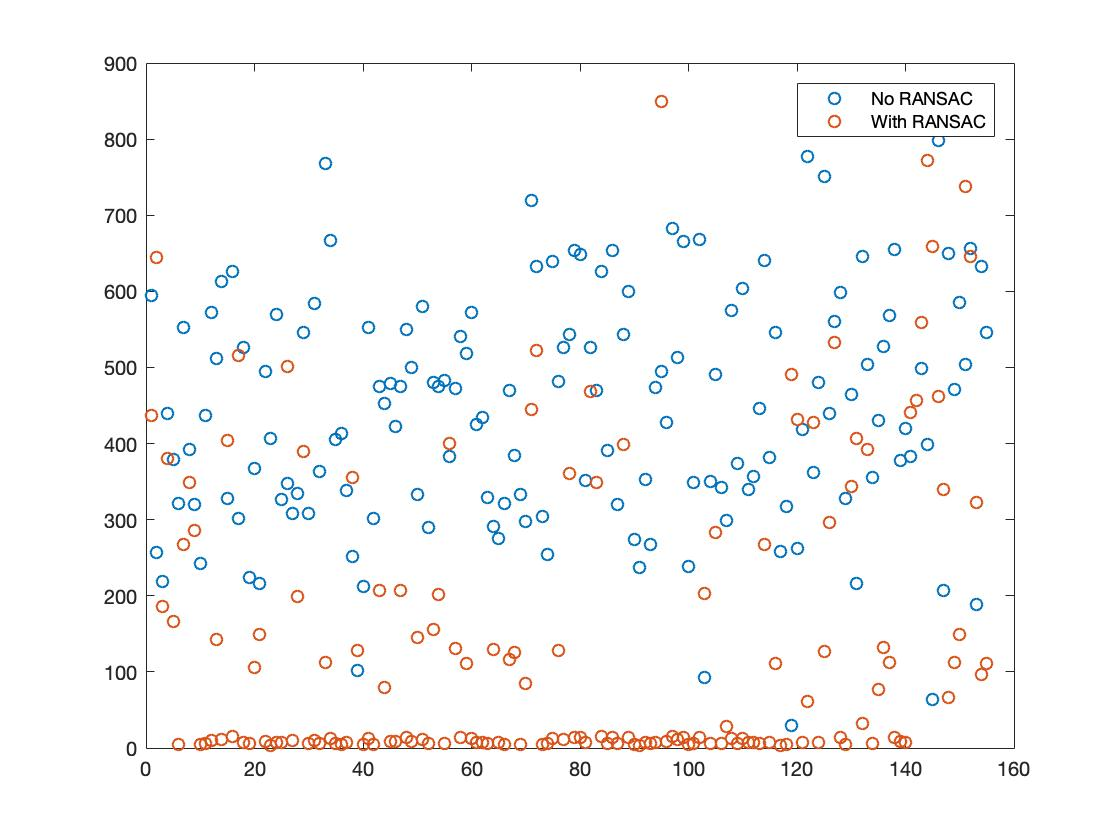
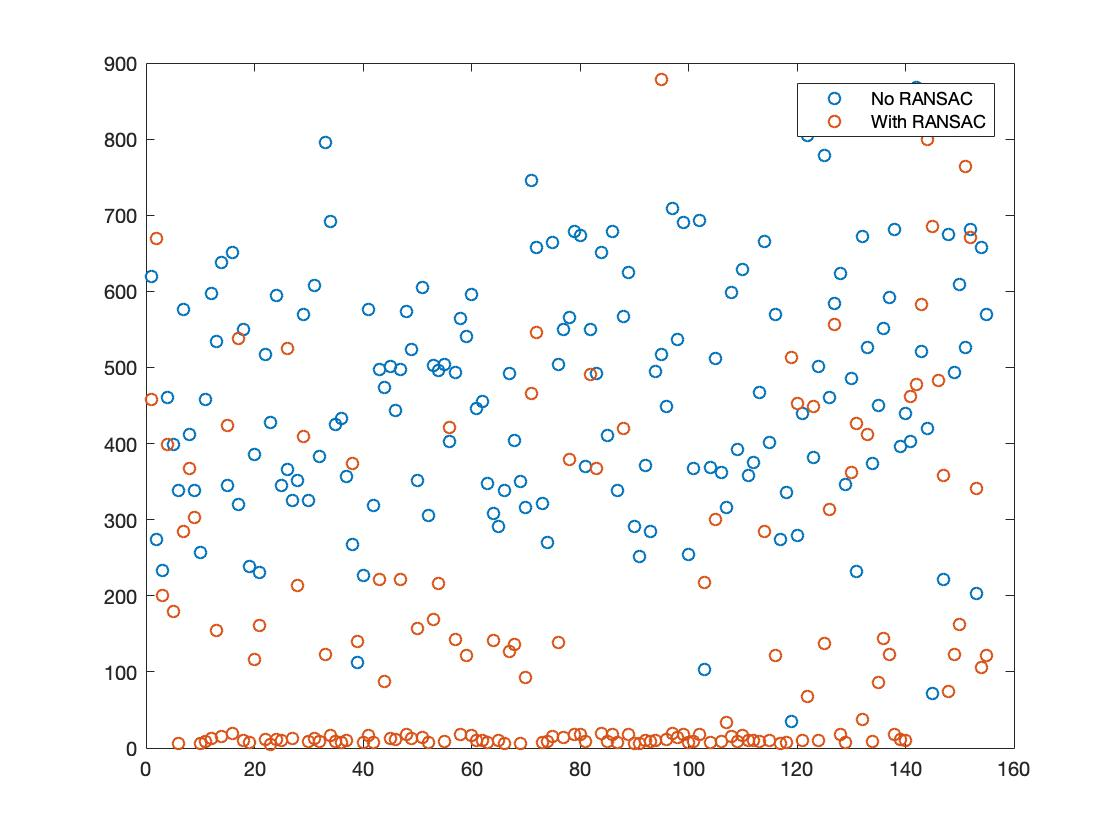
add normalization

diff --git a/normalize_DLT.m b/normalize_DLT.m
@@ -1,0 +1,35 @@
+% Normalized Direct Linear Transform
+
+function [norm_Features, norm_Matches, T_Features, T_Matches] = normalize_DLT(Features, Matches)
+    % Features: Nx2 matrices storing the features [x, y] FIXED
+    % Matches: Nx2 matrices storing the correspondences [x', y'] MOVING
+    
+    
+    % Move features and Matches centered on origin
+    mean_Features = mean(Features)
+    mean_Matches = mean(Matches)
+    norm_Features = Features - mean_Features;
+    norm_Matches = Matches - mean_Matches;
+    
+    % Find mean distance to origin
+    sd_Features = std(norm_Features)
+    sd_Matches = std(norm_Matches)
+    
+    dist_Features = mean(sqrt(sum(Features.^2)));
+    dist_Matches = mean(sqrt(sum(Matches.^2)));
+    
+    % Change average distance to sqrt(2)
+    norm_Features = sqrt(2) * norm_Features/dist_Features;
+    norm_Matches = sqrt(2) * norm_Matches/dist_Matches;
+    
+%     T_Features = [sqrt(2)/sd_Features(1), 0, -mean_Features(1);
+%                   0, sqrt(2)/sd_Features(2), -mean_Features(2);
+%                   0, 0, 1];
+%     
+%     T_Matches = [sqrt(2)/sd_Matches(1), 0, -mean_Matches(1);
+%                   0, sqrt(2)/sd_Matches(2), -mean_Matches(2);
+%                   0, 0, 1];
+    T_Features = computeHomography(norm_Features, Features, "Similarity");
+    T_Matches = computeHomography(norm_Matches, Matches, "Similarity");
+    
+end

diff --git a/testRANSACHomography.m b/testRANSACHomography.m
@@ -12,8 +12,8 @@ addpath('/Users/briannaburton/vlfeat-0.9.21/toolbox/demo');
 % same range
 
 % Specify images to register
-Ia = imread('./DataSet00/skin1.jpg') ;
-Ib = imread('./DataSet00/skin2.jpg') ;
+Ia = imread('./DataSet00/retina1.png') ;
+Ib = imread('./DataSet00/retina2.png') ;
 
 peak_thresh = 0;
 edge_thresh = 10;
@@ -35,9 +35,21 @@ fixed = [xa; ya]';
 moving = [xb; yb]';
 
 Model = "Projective";
+Normalization = true;
 
-H = computeHomography(fixed, moving, Model);
-Hran = computeHomographyRANSAC(fixed, moving, Model);
+if Normalization == true
+    % Extend the algorithm with a normalization and a denormalization step
+    [fixed_norm, moving_norm, T_Features, T_Matches] = normalize_DLT(fixed, moving);
+    H = computeHomography(fixed_norm, moving_norm, Model);
+    Hran = computeHomographyRANSAC(fixed_norm, moving_norm, Model);
+    % Denormalization
+    H = inv(T_Features)*H*T_Matches
+    Hran = inv(T_Features)*Hran*T_Matches
+    
+elseif Normalization == false
+    H = computeHomography(fixed, moving, Model);
+    Hran = computeHomographyRANSAC(fixed, moving, Model);
+end
 
 img = Ib; % image to transform
 H_imwarp = transpose(H); %transpose for imwarp

diff --git a/find_error_dist.m b/find_error_dist.m
@@ -1,14 +1,25 @@
 function sq_diff = find_error_dist(H, Features, Matches)
-%find_error_dist returns distance between fixed (Features) and
+%find_error_dist returns reprojection error between fixed (Features) and
 %transformed moving (Matches) points
-%   H is a homagrphy matrix
+
+%   H is a homography matrix
     % Apply homography 
     Homogeneous_Matches = [Matches'; ones(1,length(Matches))];
     Transformed_Matches = H * Homogeneous_Matches;
 
+    % Apply inverse homography 
+    Homogeneous_Features = [Features'; ones(1,length(Features))];
+    Transformed_Features = inv(H) * Homogeneous_Features;
+    
     % Calculate errors
     Transformed_Matches = Transformed_Matches(1:2,:)';
-    sq_diff = (Features - Transformed_Matches).^2;
-    sq_diff = sqrt(sum(sq_diff, 2));
+    sq_diff1 = (Features - Transformed_Matches).^2;
+    sq_diff1 = sqrt(sum(sq_diff1, 2));
+    
+    Transformed_Features = Transformed_Features(1:2,:)';
+    sq_diff2 = (Matches - Transformed_Features).^2;
+    sq_diff2 = sqrt(sum(sq_diff1, 2));
+    
+    sq_diff = sq_diff1 + sq_diff2;
 end
 

diff --git a/computeHomographyRANSAC.m b/computeHomographyRANSAC.m
@@ -4,7 +4,8 @@ function H = computeHomographyRANSAC(Features, Matches, Model)
     % Model: string specifying a transformation model
     
     %Set threshold in pixels
-    thresh = 5;
+    % 10 without normalization
+    thresh = 0.0005;
     
     %Set stopping condition for RANSAC
     max_iterations = 5000;
